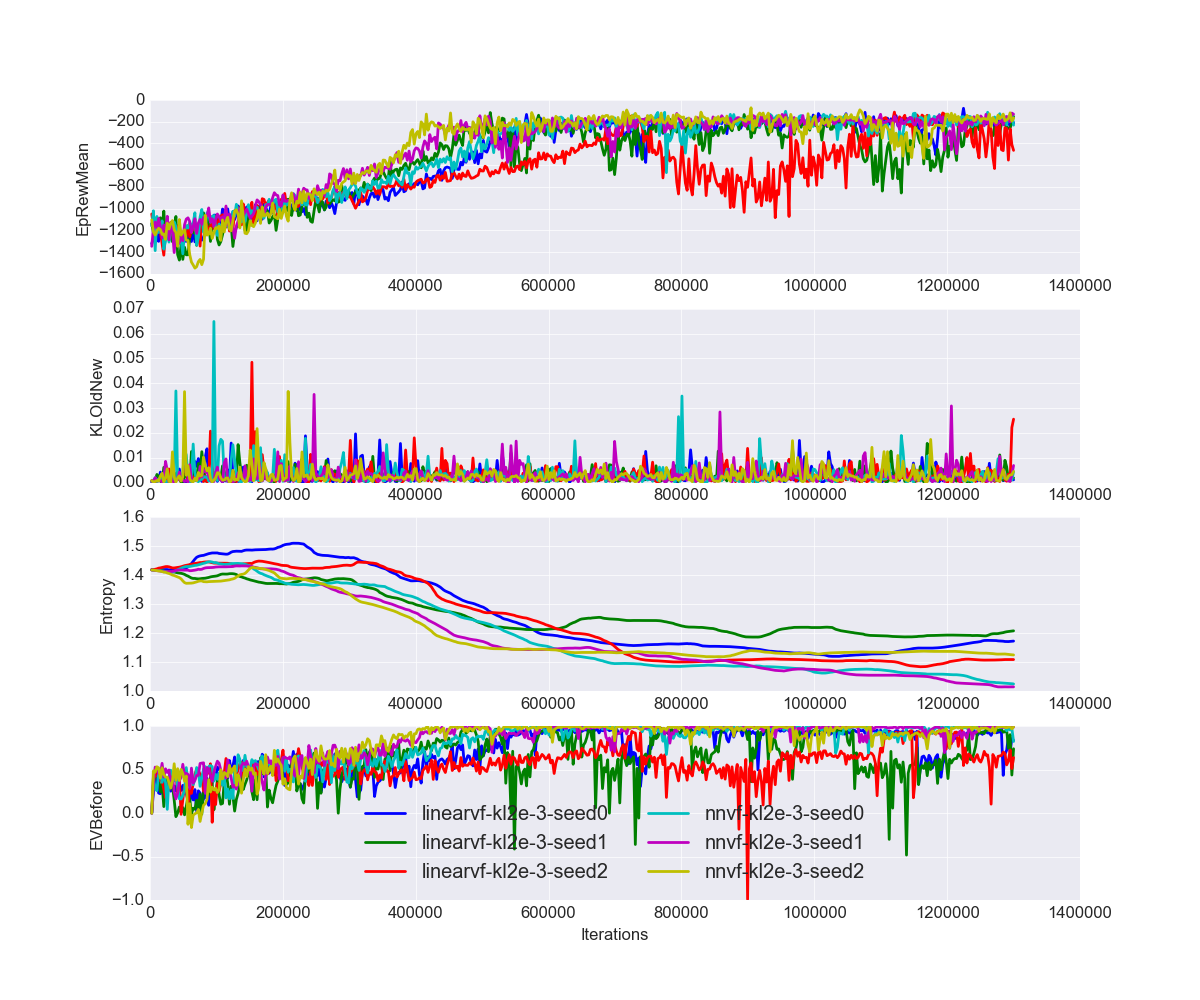
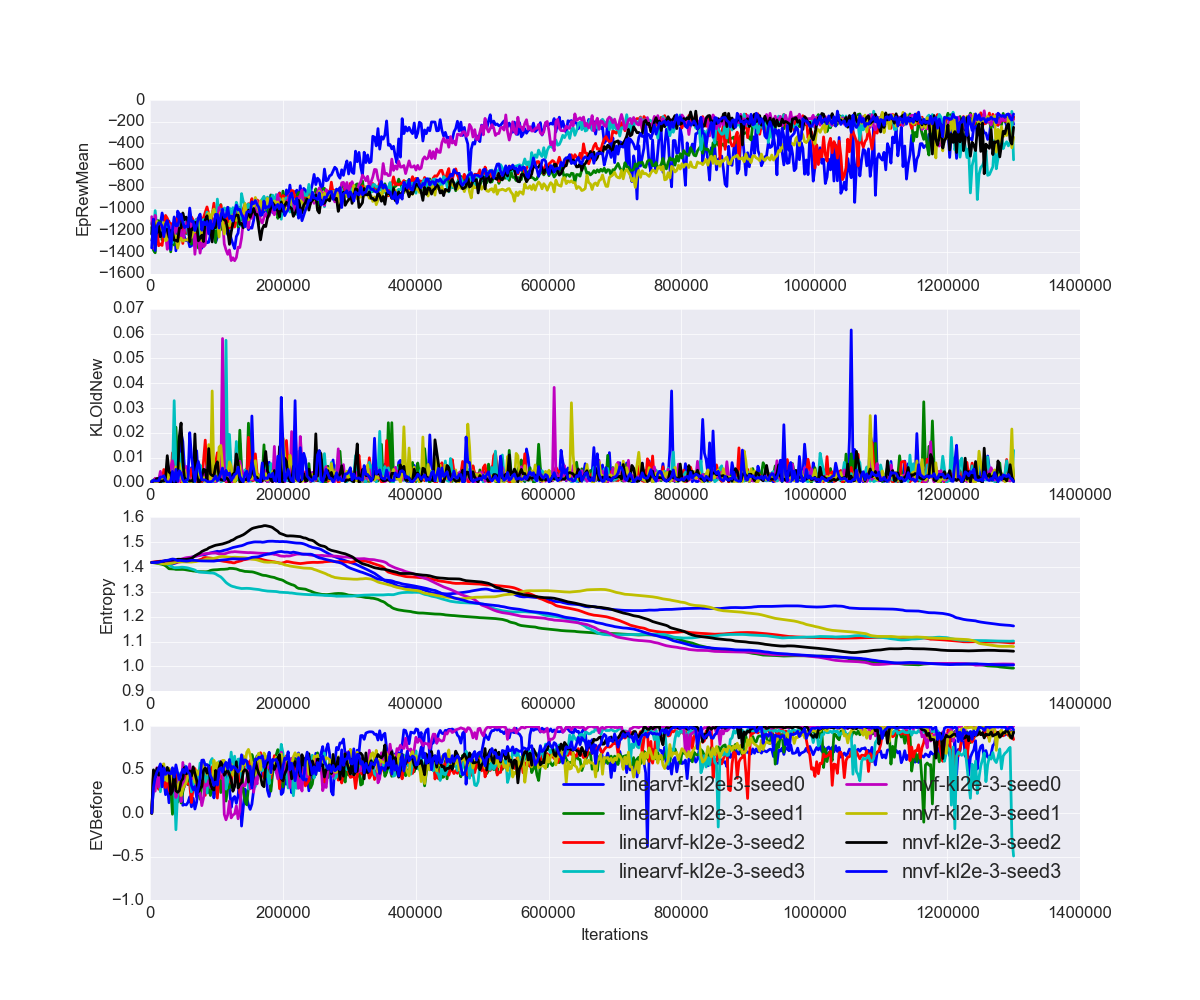
Er, never mind, neural net doesn't seem that much better

Changed region(s): [[0.0925, 0.527, 0.8942, 0.899], [0.1233, 0.093, 0.8633, 0.279], [0.1233, 0.341, 0.8633, 0.496]]

diff --git a/pg/plot_learning_curves.py b/pg/plot_learning_curves.py
@@ -34,7 +34,7 @@ fig, axes = subplots(4, figsize=(12,10))
 # Try to handle the smoothed case separately. It's a bit ugly.
 if args.smooth:
     niter = 500
-    n = 3
+    n = 4
     colors = ['gold', 'midnightblue']
 
     avgx_lin = np.zeros(niter,)

diff --git a/pg/README.md b/pg/README.md
@@ -15,12 +15,14 @@ Here's the next part, with the neural network value function:
 
 ![part02](figures/part_02.png?raw=true)
 
-And here are the averages of these, so I took the average of the three linear
-ones, and the three NN ones:
+And here are the averages of these, so I took the average of the four linear
+ones, and the four NN ones:
 
 ![part02_smoothed](figures/part_02_smooth.png?raw=true)
 
-It looks like the neural network one is actually good!
+Ack, is the NN even that much better? It looks like it can explain the variance
+slightly better (since, well, it *is* a neural network) but the performance is
+not noticeably better. Maybe the problem isn't hard enough?
 
 TODO for plotting and the actual code:
 
